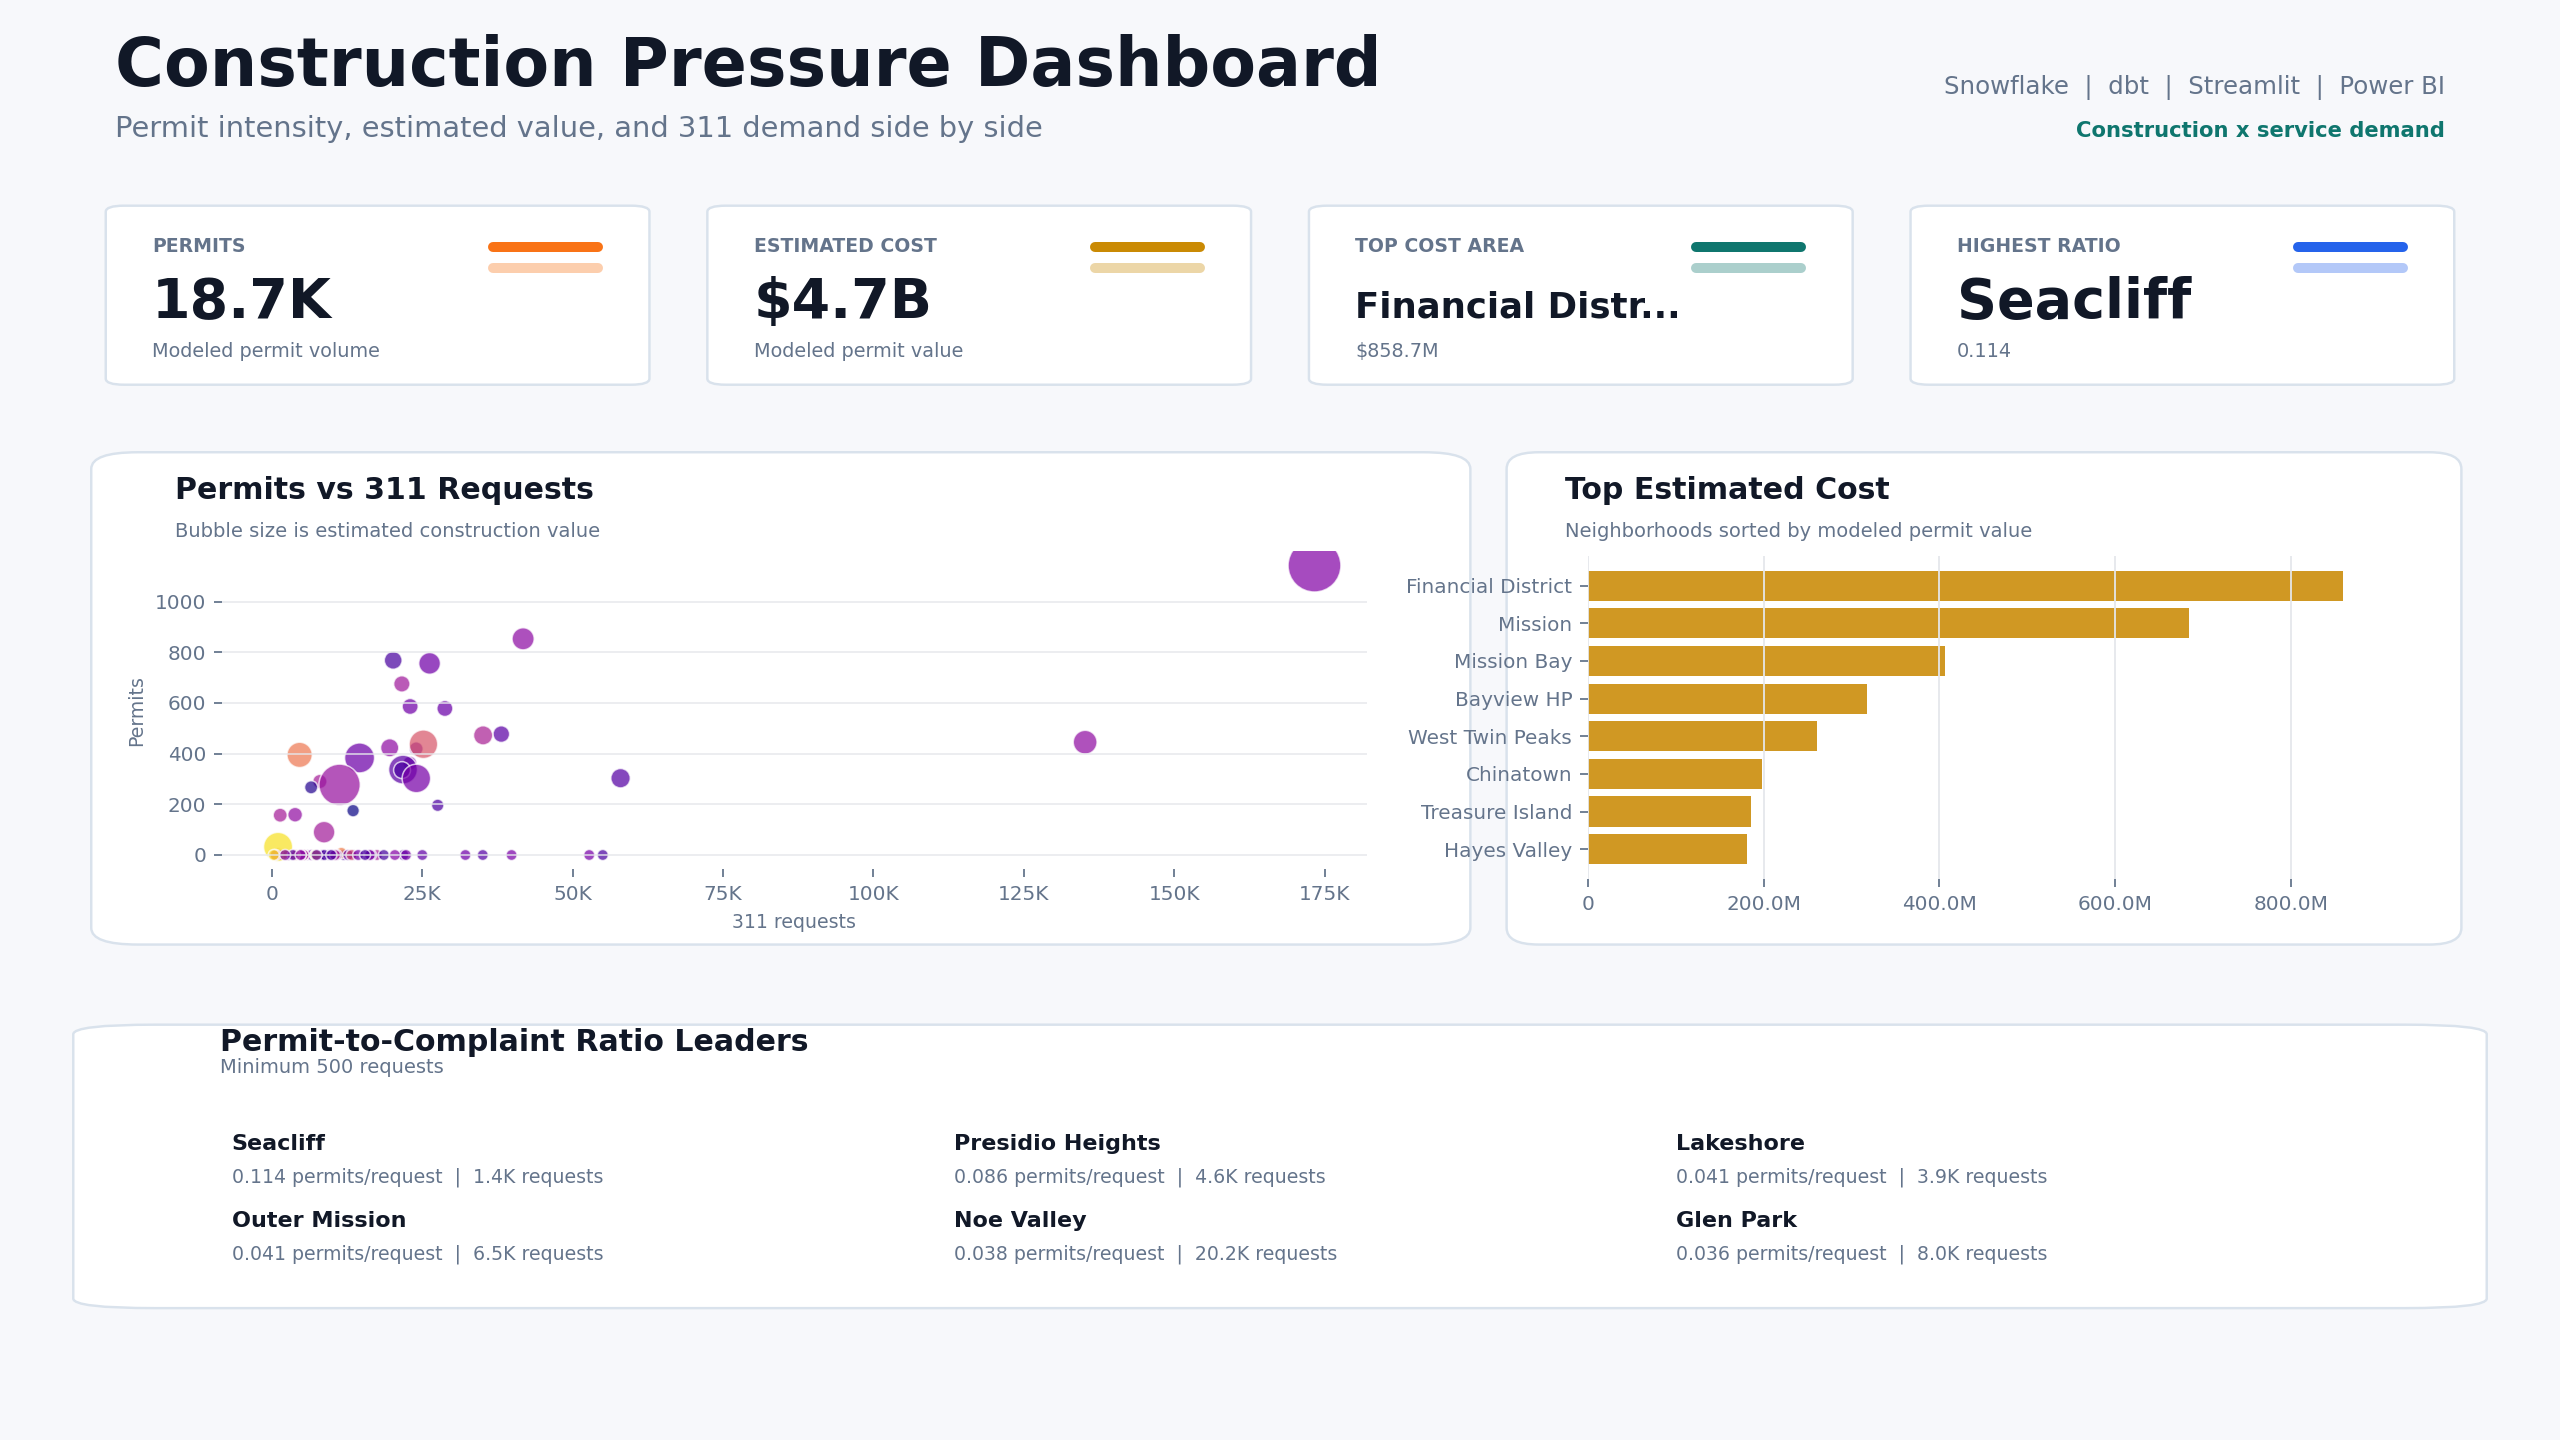
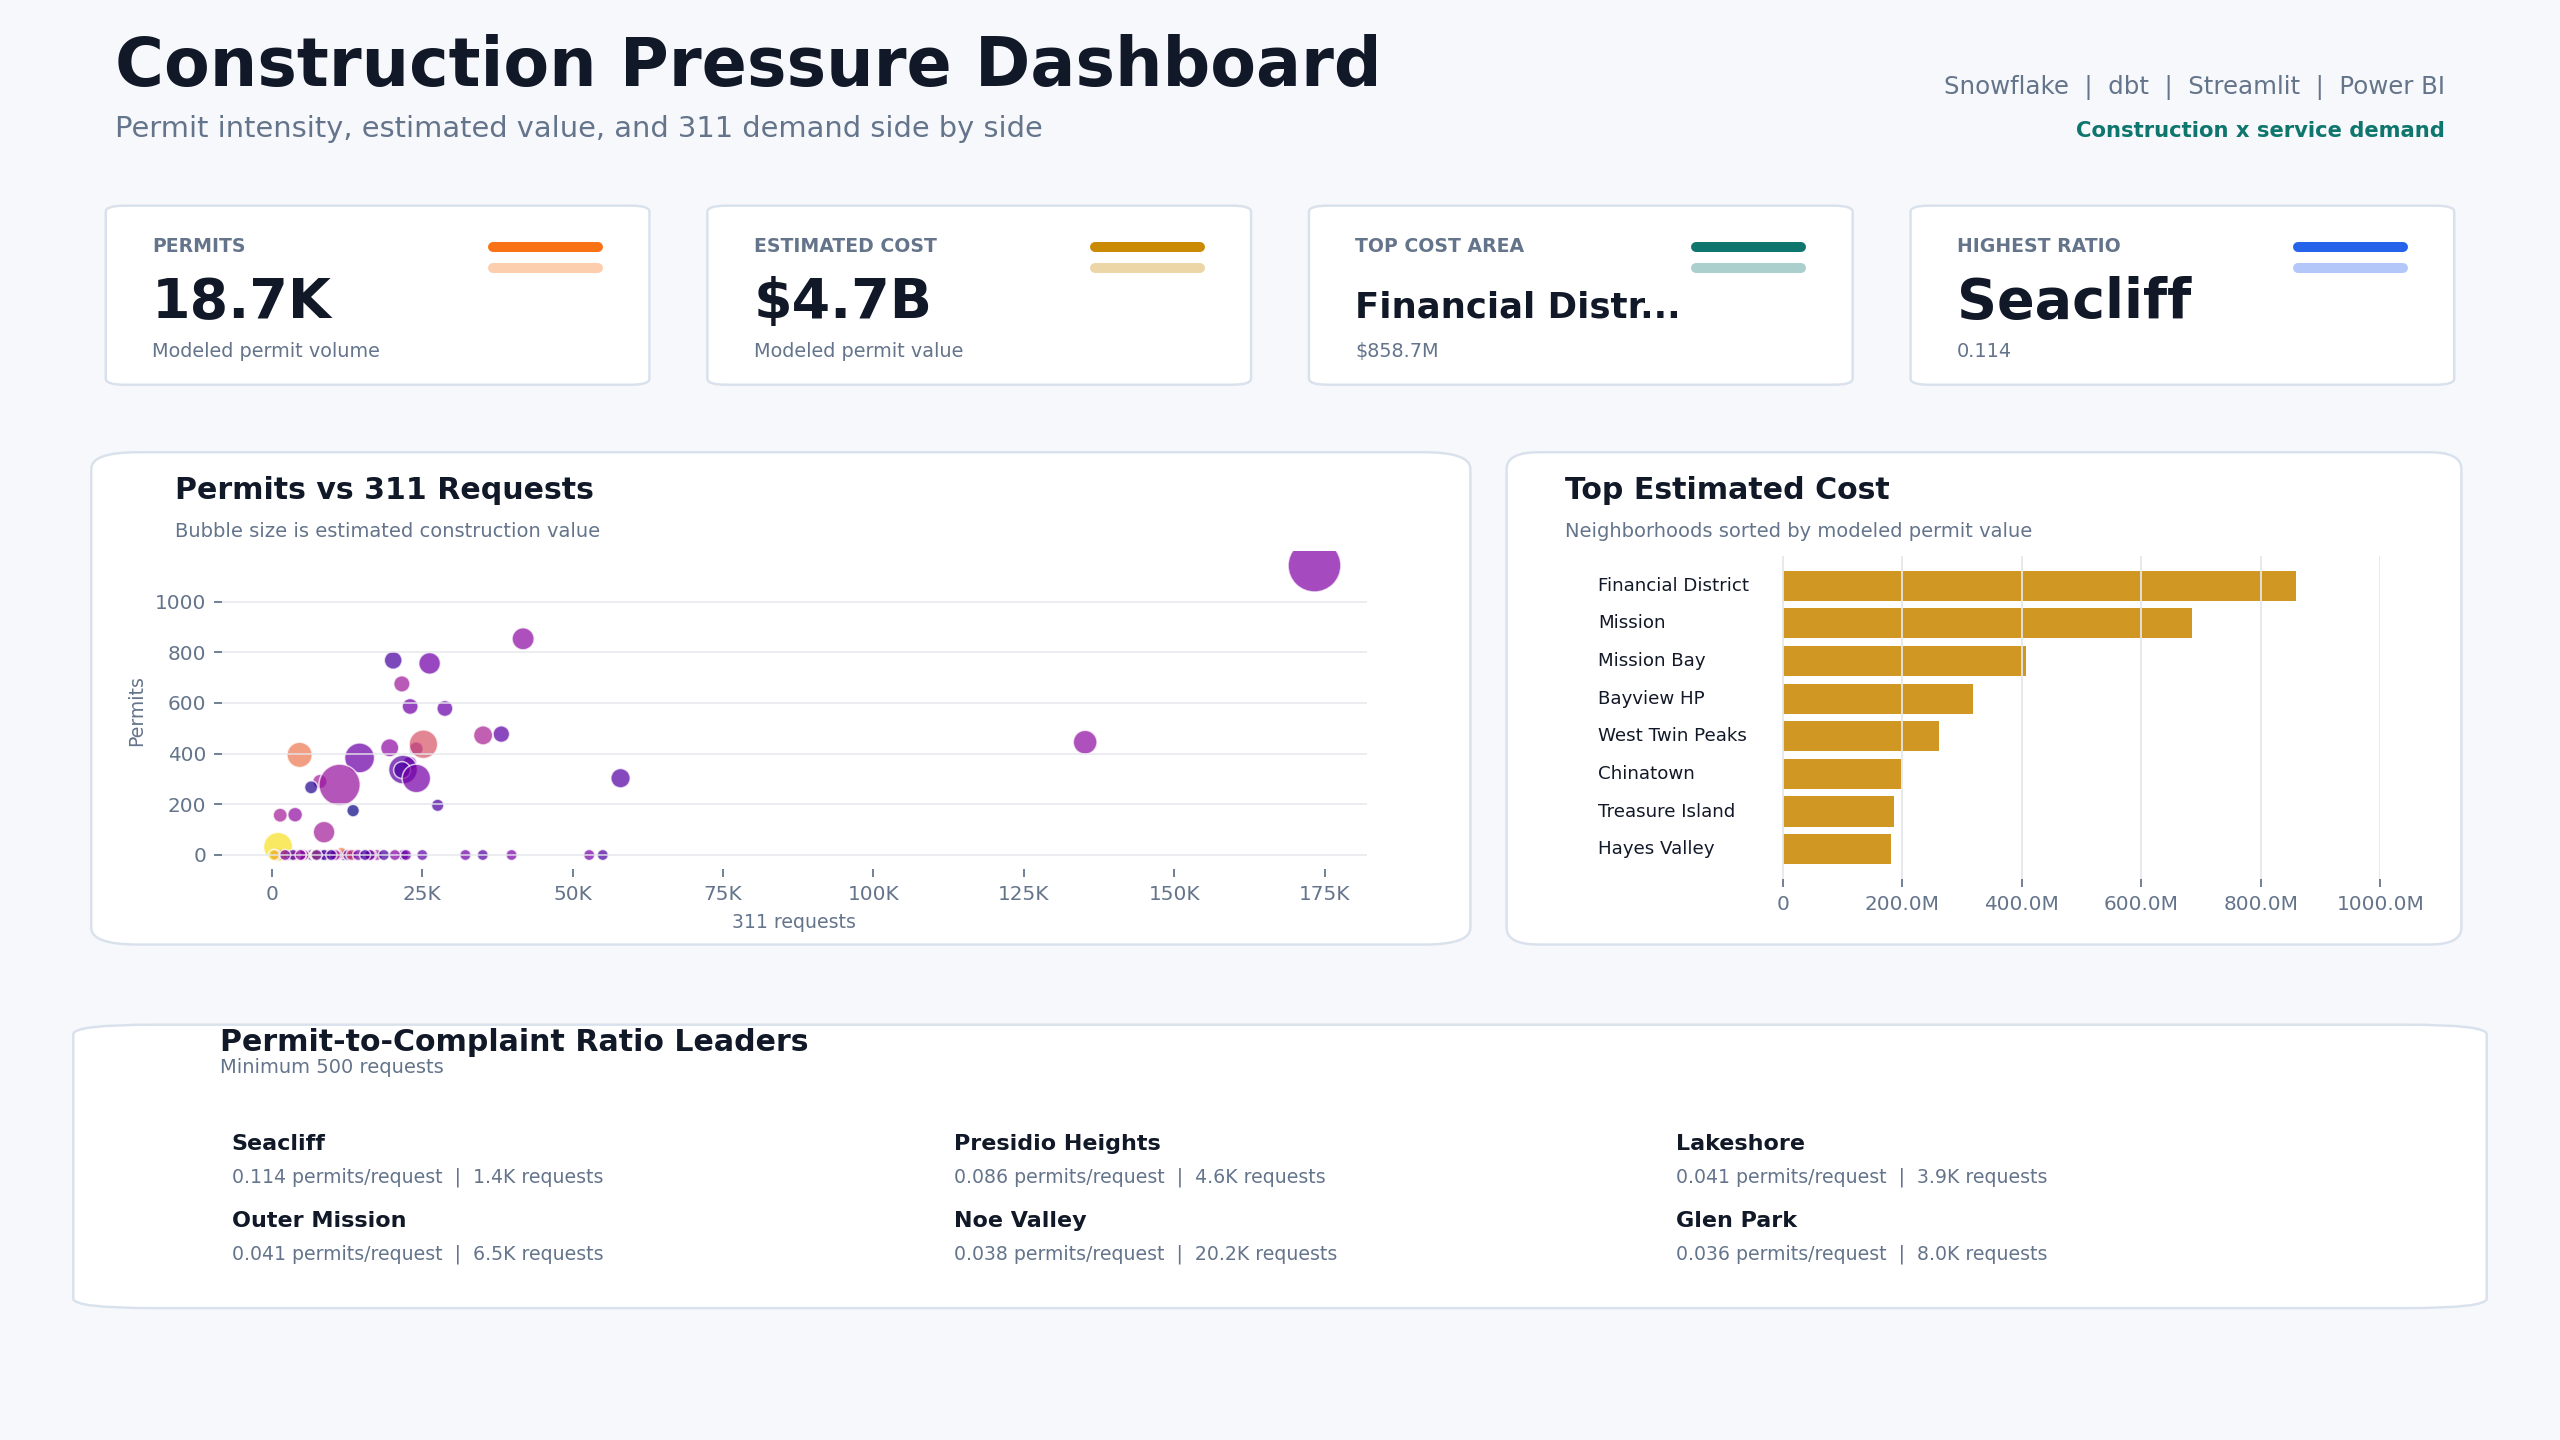
Fix construction dashboard label overflow

diff --git a/scripts/render_readme_dashboard_preview.py b/scripts/render_readme_dashboard_preview.py
@@ -252,10 +252,16 @@ def render_construction_dashboard(df: pd.DataFrame, output_path: Path) -> None:
     cost_sorted = cost_leaders.sort_values("estimated_cost").copy()
     cost_sorted["display_name"] = cost_sorted["NEIGHBORHOOD"].apply(short_label)
     y_positions = range(len(cost_sorted))
+    max_cost = cost_sorted["estimated_cost"].max()
     ax_cost.barh(y_positions, cost_sorted["estimated_cost"], color=GOLD, alpha=0.88)
-    ax_cost.set_yticks(list(y_positions), cost_sorted["display_name"])
+    ax_cost.set_yticks([])
+    ax_cost.set_xlim(-max_cost * 0.38, max_cost * 1.1)
+    tick_step = 200_000_000
+    tick_max = int(((max_cost * 1.05) // tick_step + 1) * tick_step)
+    ax_cost.set_xticks(list(range(0, tick_max + 1, tick_step)))
     ax_cost.xaxis.set_major_formatter(FuncFormatter(k_formatter))
-    ax_cost.tick_params(axis="y", labelsize=8.2, colors=INK)
+    for y, row in zip(y_positions, cost_sorted.itertuples(index=False)):
+        ax_cost.text(-max_cost * 0.36, y, row.display_name, va="center", fontsize=8.2, color=INK)
     clean_axis(ax_cost)
     ax_cost.grid(True, axis="x", color=GRID, linewidth=0.8)
     ax_cost.grid(False, axis="y")